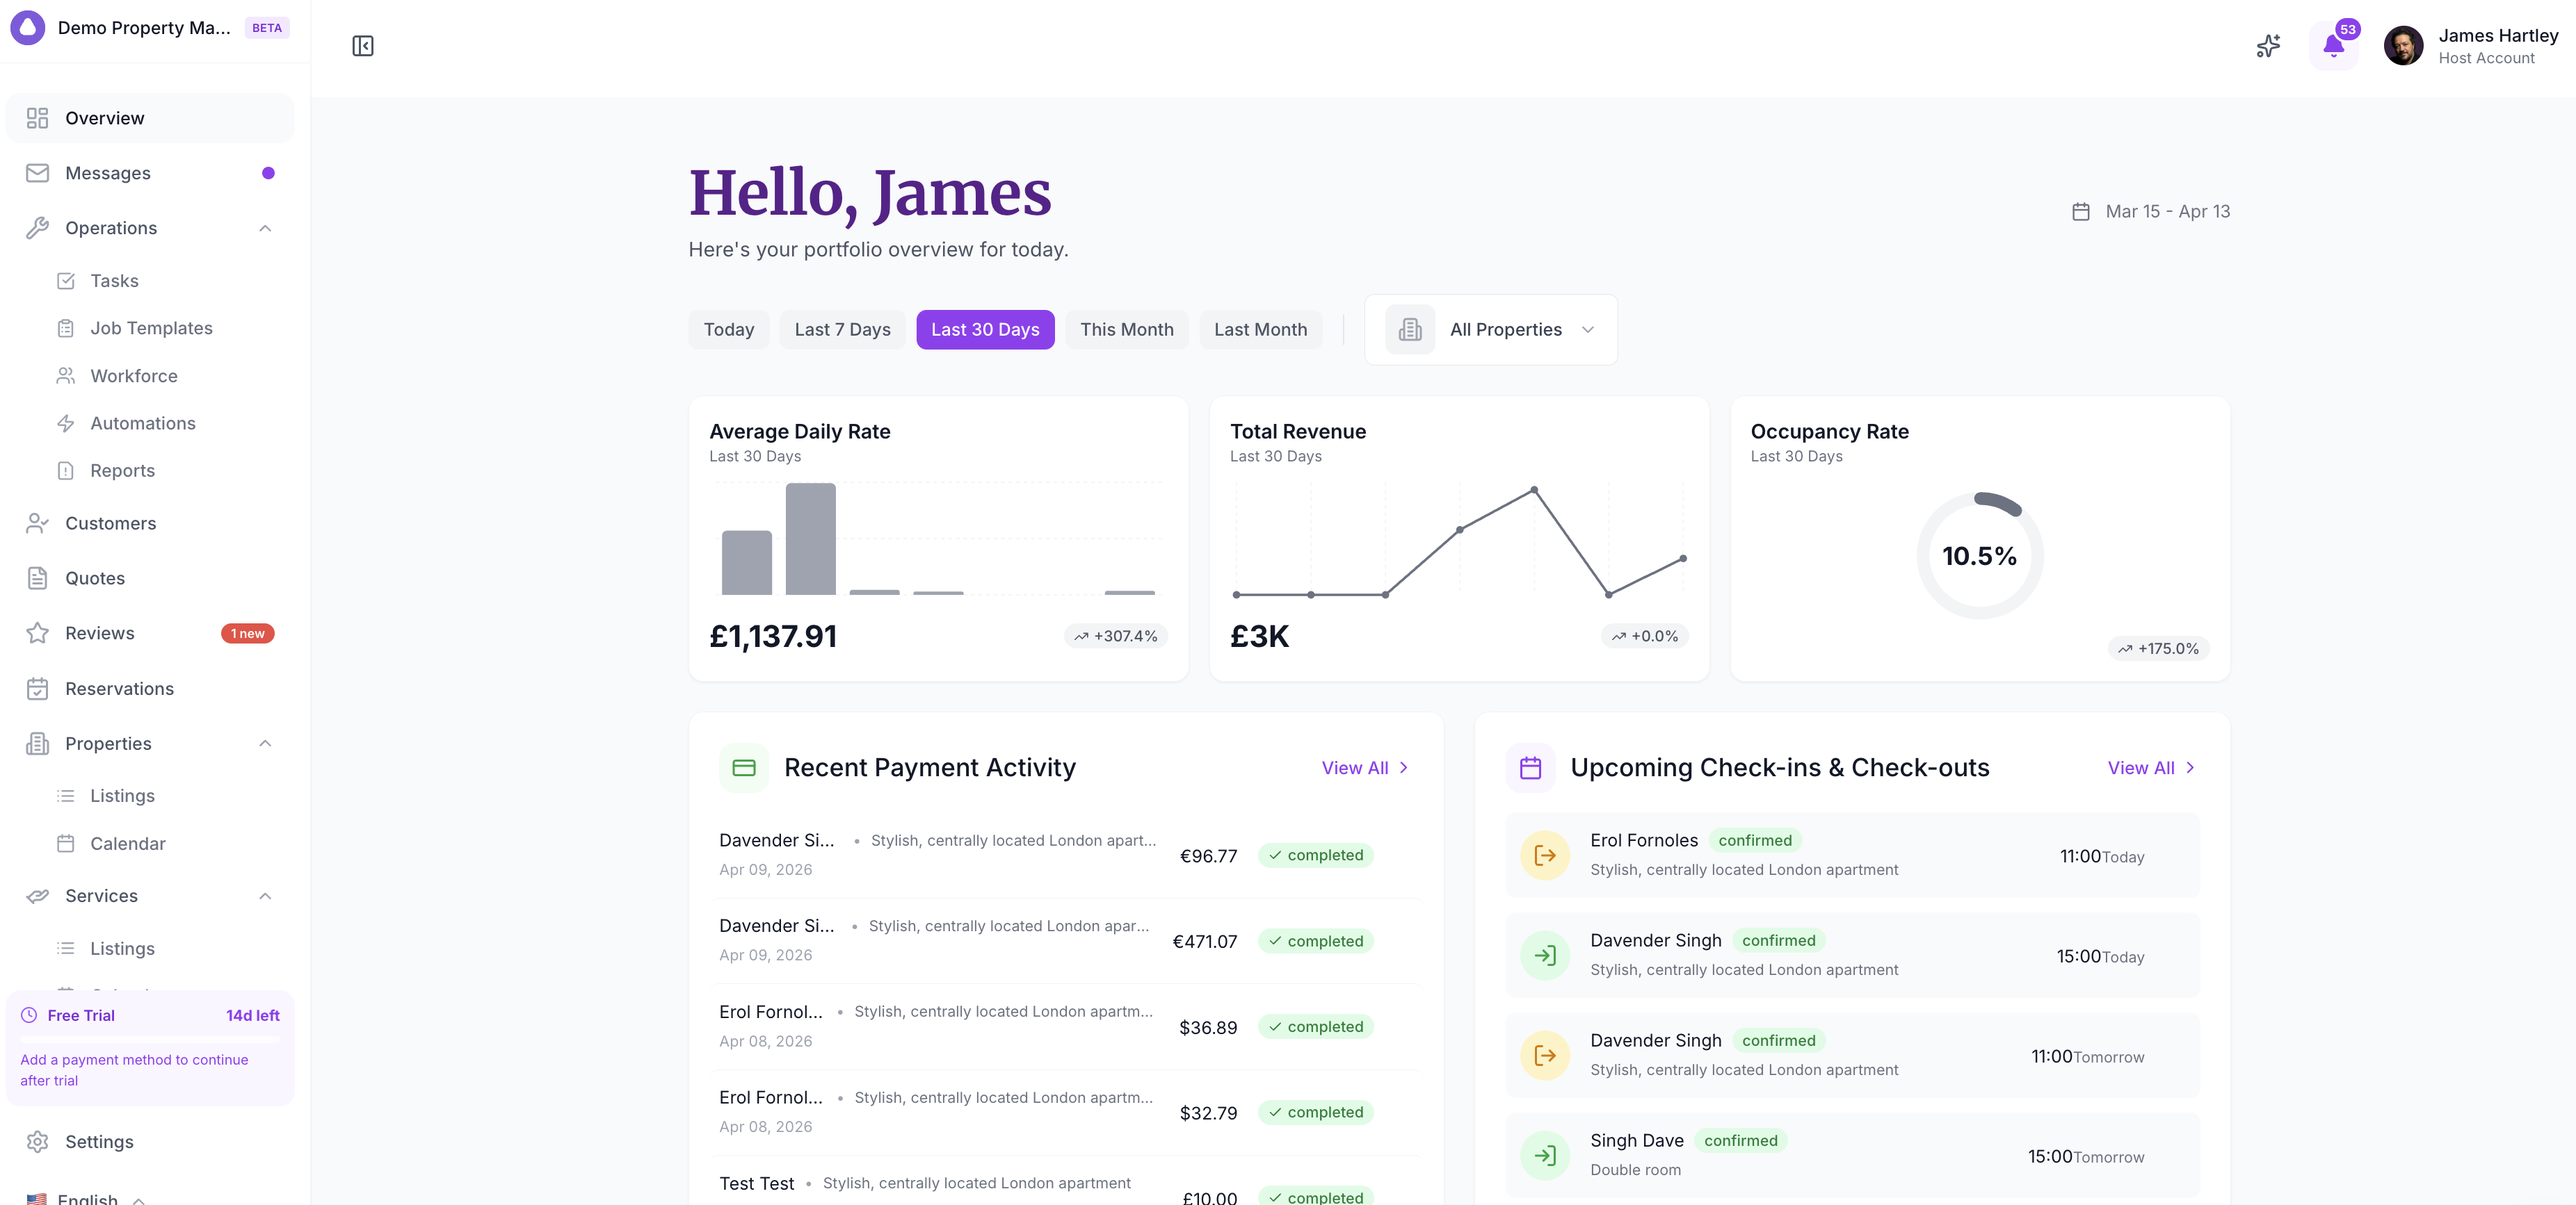
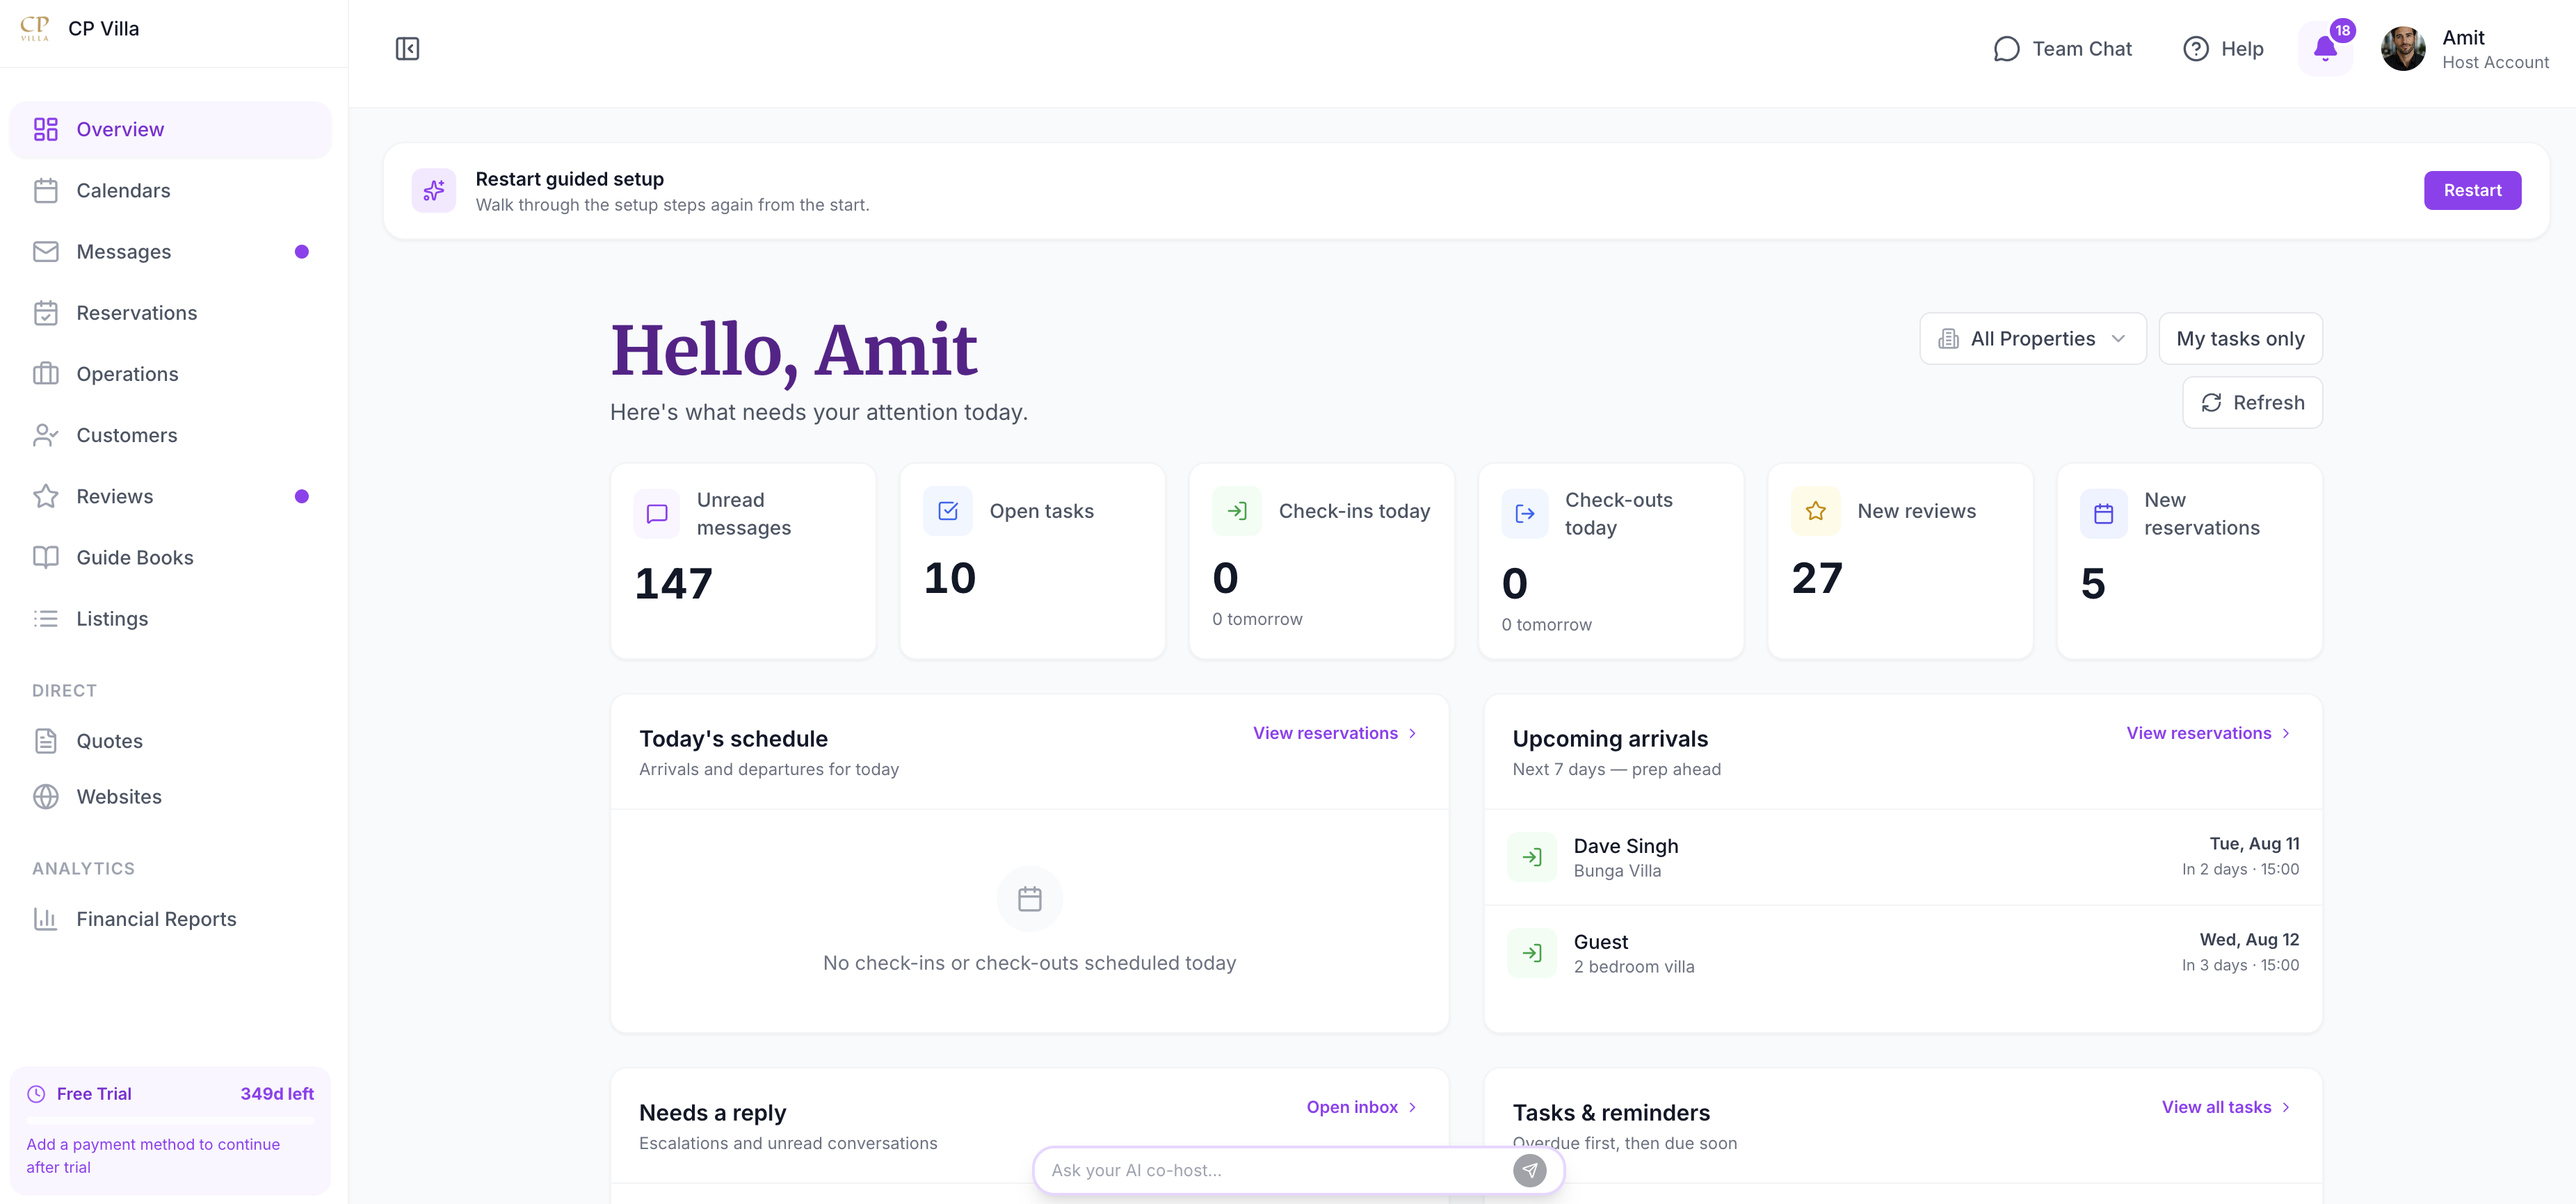
Update welcome guide screenshots

diff --git a/src/content/articles/navigating-symplehost.md b/src/content/articles/navigating-symplehost.md
@@ -35,7 +35,7 @@ Here's every item in the sidebar and what it's for:
 | **Operations** | Unified work hub for tasks, templates, workforce, automations, reports, and expenses |
 | **Customers** | Your guest and customer database |
 | **Reviews** | Monitor and respond to guest reviews |
-| **Guest Books** | Create digital welcome guides, recommendations, and guest-facing information |
+| **Guide Books** | Create digital welcome guides, recommendations, and guest-facing information |
 | **Listings** | Manage properties, services, pricing, availability, and channel setup |
 | **Rentals** | Manage rental items when this feature is enabled |
 

diff --git a/src/content/articles/welcome-to-symplehost.md b/src/content/articles/welcome-to-symplehost.md
@@ -52,7 +52,7 @@ When you log in, you'll see a **sidebar on the left**. This is how you navigate 
 
 **Listings** — Your properties and services. Add listings, manage pricing, review availability, and connect channels.
 
-**Guest Books** — Create guest-facing guides, local recommendations, and add-ons for each property.
+**Guide Books** — Create guest-facing guides, local recommendations, and add-ons for each property.
 
 **Quotes** — Create and send quotations to guests for custom stays or services.
 
